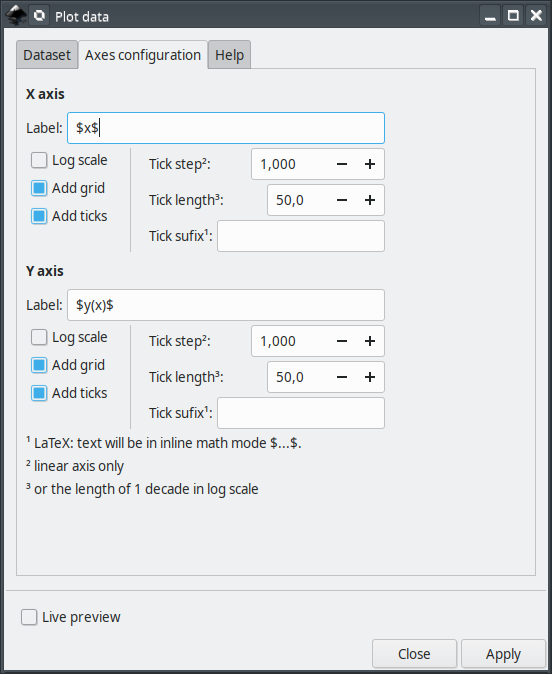
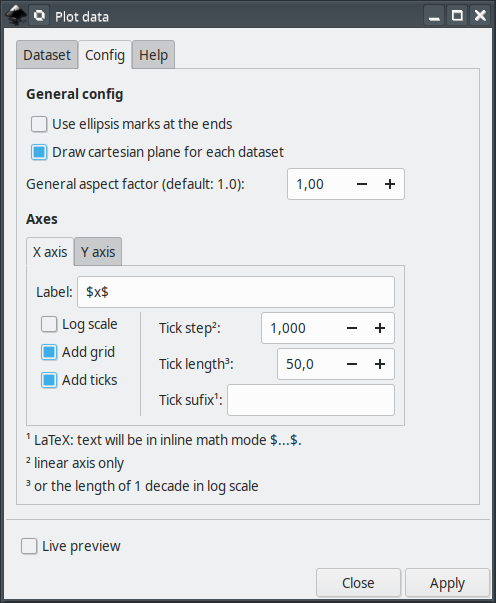
changes to the GUI

diff --git a/latest/cartesianPlotData2D.py b/latest/cartesianPlotData2D.py
@@ -38,6 +38,7 @@ class PlotData(inkBase.inkscapeMadeEasy):
 
         self.arg_parser.add_argument("--tab", type=str, dest="tab", default="object")
         self.arg_parser.add_argument("--subTab_help", type=str, dest="subTab_help", default="object")
+        self.arg_parser.add_argument("--subtab_axis", type=str, dest="subtab_axis", default="object")
 
         self.arg_parser.add_argument("--xData", type=str, dest="xValues", default='0 1 2 3 4')
         self.arg_parser.add_argument("--yData", type=str, dest="yValues", default='0 1 2 1 0')

diff --git a/README.md b/README.md
@@ -1,5 +1,5 @@
 # cartesianPlotData2D
- Inkscape extension to plot a set of points, given their coordinates (x,y)
+
 This extension will assist you creating plots from datasets in [Inkscape](https://inkscape.org/).
 
 
@@ -117,7 +117,7 @@ Installation procedures for latest and older versions are described below.
 
 The extension can be found under `extensions > fsmMLK > Plot 2D > Cartesian` menu.
 
-This extension is presented in two tabs, **Dataset** and  **Axes configuration**. The first is used to pass the data set and provide general configuration options. The second is used to configure the axes.
+This extension is presented in two tabs, **Dataset** and  **Config**. The first is used to pass the data set and provide general configuration options. The second is used to configure the axes.
 
 ## Dataset tab
 
@@ -178,6 +178,24 @@ the extension will create two graphs, where:
 
 **Y values:** String containing Y values of each point. The values must be separated by space or comma. 'X values' and 'Y values' must have the same number of values.
 
+### Custom output range section
+
+
+**Use custom output range:** Toggle custom Y axis range. If unchecked the limits will be defined by the limits of the input data.
+
+**Y limits:** (linear scale only) Set the range of the dependent variable (Y axis), despite of the data. On the side there are two fields for the lower and upper limits.
+
+If Ydata has values outside the specified custom limits, then the plot will be clipped at these values. A text element will be added to the document informing it. Check your plot! See image bellow.
+
+<img src="docs/images/yMin_yMax.png" width="600px"/>
+
+## Config tab
+
+This tab has two sections. The first contains general properties of the plot and the second controls the axes.
+
+<img src="docs/images/AxesConfig_Tab.png" width="450px"/>
+
+
 ### General config section
 
 **Use ellipsis marks at the ends:** Use ellipsis marks at the end of the plots to indicate continuation
@@ -190,20 +208,9 @@ the extension will create two graphs, where:
 
 <img src="docs/images/generalAspectRatio.png" width="600px"/>
 
-### Custom output range section
+### Axes section
 
-**Use custom output range:** Toggle custom Y axis range. If unchecked the limits will be defined by the limits of the input data.
-
-**Y limits:** (linear scale only) Set the range of the dependent variable (Y axis), despite of the data. On the side there are two fields for the lower and upper limits.
-
-If Ydata has values outside the specified custom limits, then the plot will be clipped at these values. A text element will be added to the document informing it. See image bellow.
-
-<img src="docs/images/yMin_yMax.png" width="600px"/>
-
-## Axes Configuration tab
-
-This tab has two sections, one for each axis. They affect the axes the same way.
-<img src="docs/images/AxesConfig_Tab.png" width="450px"/>
+The parameters in this section controls X and Y axes. They act on the axes the same way.
 
 **Label:** label of the axes. If LaTeX support is activated and you want to write in mathematical environment, enclose your text with $...$.
 
